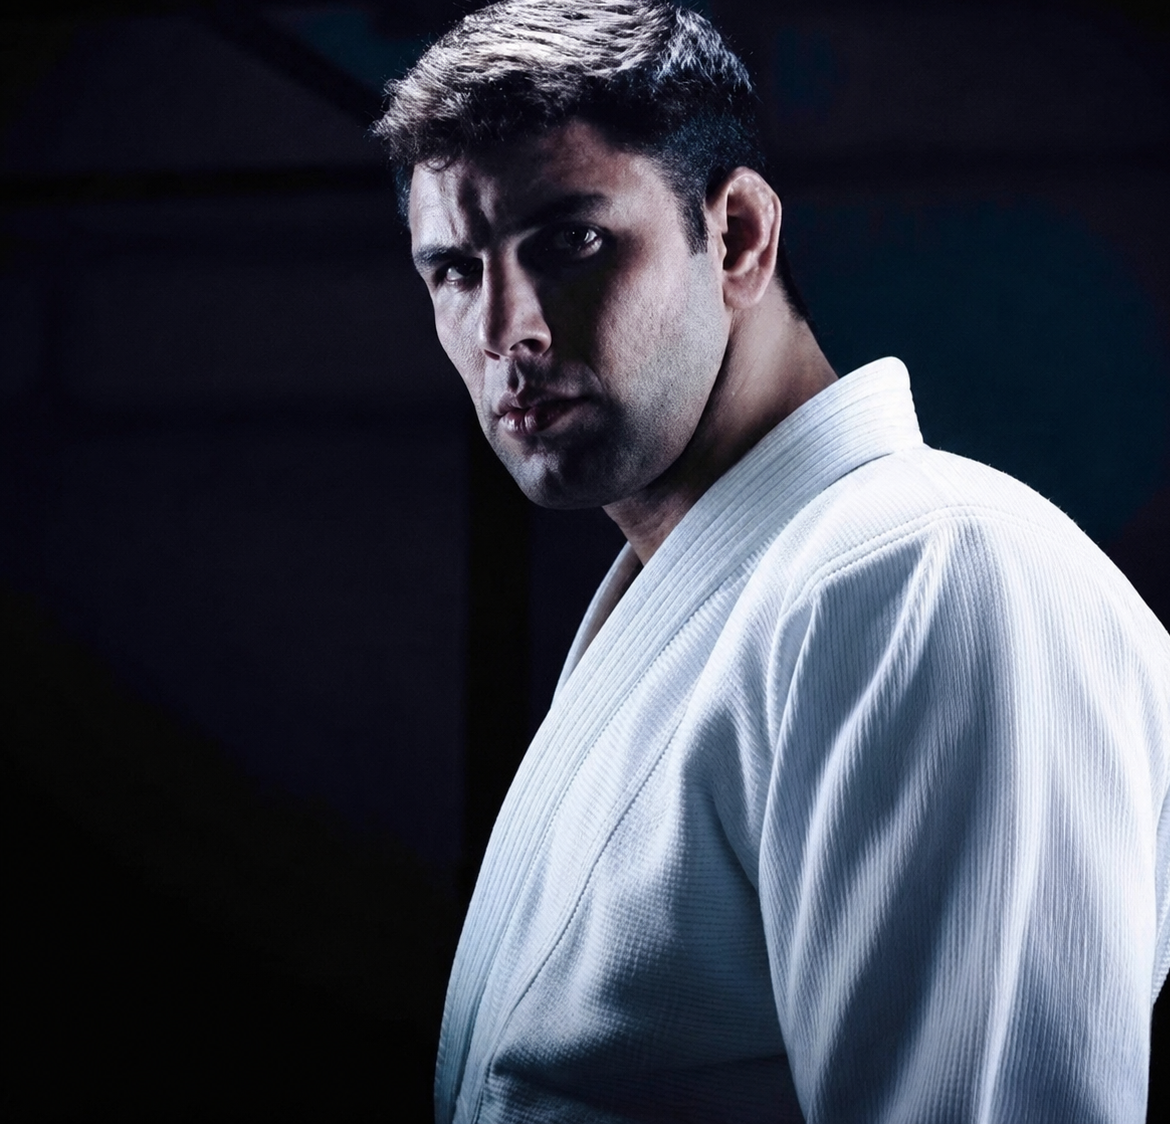
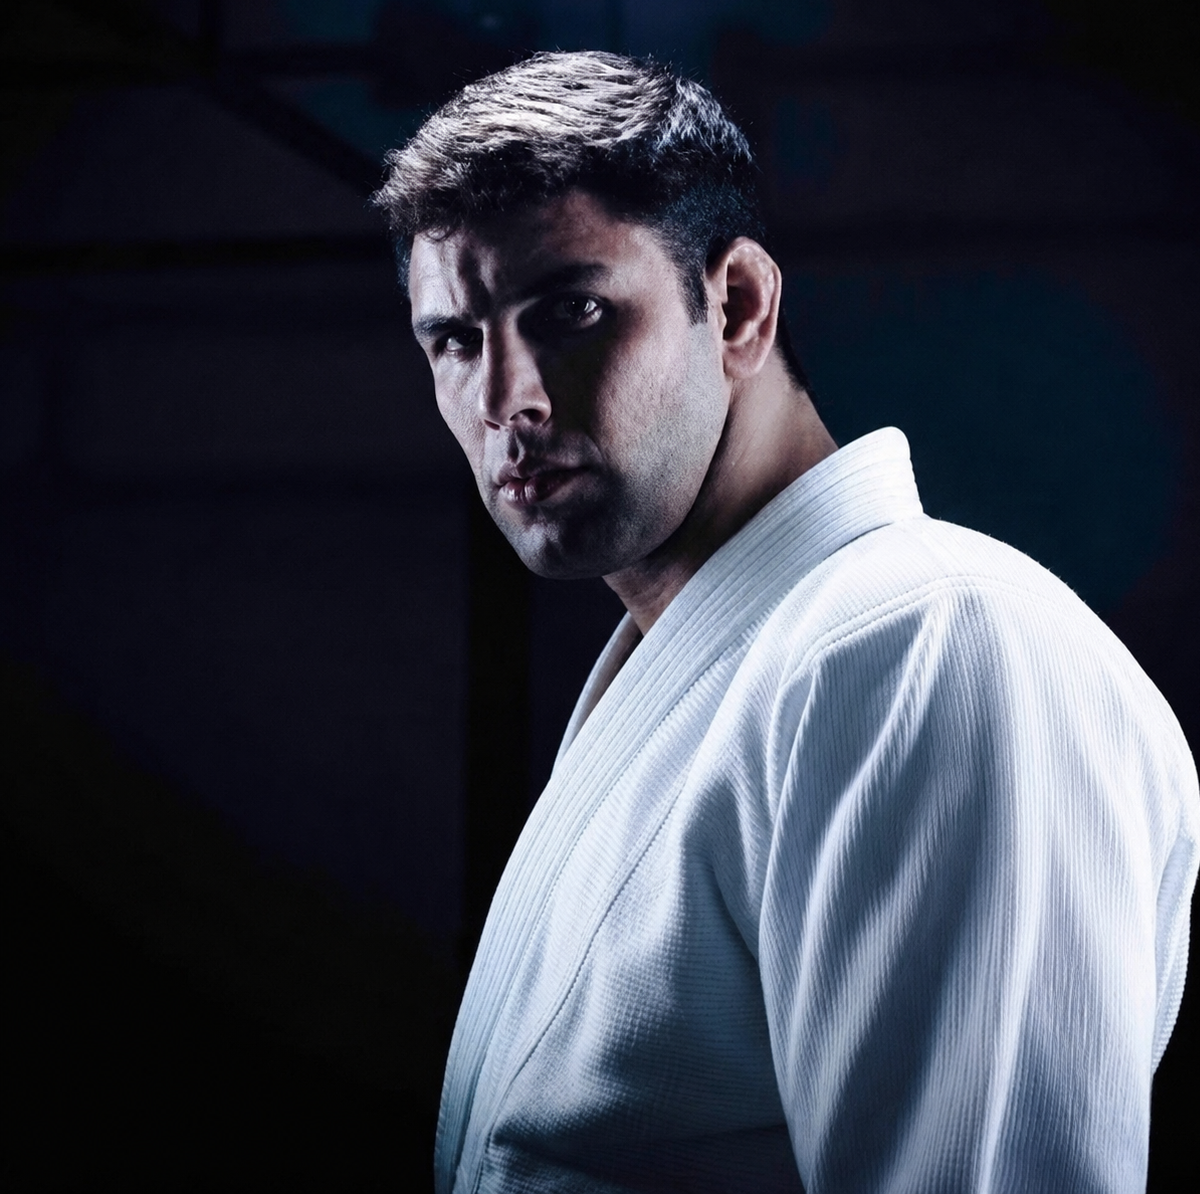
fix(homepage): shrink the mobile hero photo element and fix headroom
Previous crop had almost no margin above the hair, so shrinking the
box height alone made it look like Buchecha was pushed into the top
corner rather than simply smaller. Re-crops with real headroom above
the head (buchecha-mobile.png, 1200x1194) and shrinks the display box
itself from 479x460 to 340x338 (~30% smaller on-screen scale: 0.409
to 0.283), re-adding the dual alpha mask (left + bottom) since the
box is now narrower than the viewport and needs to blend into the
gradient on all open edges.

Changed region(s): [[0.3077, 0.0, 1.0, 1.0]]

diff --git a/apps/web/components/HeroSection.tsx b/apps/web/components/HeroSection.tsx
@@ -26,26 +26,36 @@ export default function HeroSection({ onOpenLoginModal }: HeroSectionProps) {
 
   return (
     <section className="relative overflow-hidden bg-gradient-to-br from-[#0E3A7A] via-[#0870E2]/90 to-[#0a2d5e] pb-16 pt-20 lg:pt-28 lg:pb-20">
-      {/* Mobile-only hero photo — pre-cropped (buchecha-mobile.png, 1170x1124), ~30% wider/shorter
-          than the previous crop, so Buchecha reads noticeably smaller within the frame: full
-          face, shoulder and torso, eyes ~21% from the top (clear of the headline), with a lot of
-          dark background around him. The box is wider than the viewport and right-anchored, so
-          the excess bleeds off the left edge (clipped by the section's overflow-hidden). Aspect
-          matches the box below exactly, so object-position is inert today but kept as
-          documentation / resilience. */}
-      <div className="absolute right-0 top-0 w-[479px] h-[460px] overflow-hidden md:hidden">
-        <Image
-          src="/buchecha-mobile.png"
-          alt=""
-          fill
-          className="object-cover object-[50%_21%]"
+      {/* Mobile-only hero photo — pre-cropped (buchecha-mobile.png, 1200x1194) with generous
+          headroom above the hair (previous crops let his head crowd the top edge, reading as
+          "pushed into the corner" instead of smaller). The display box itself is now physically
+          smaller (340x338, vs 479x460 before) so Buchecha reads clearly smaller on screen, not
+          just differently cropped. Because the box is now narrower than the viewport, its own
+          left/bottom edges need a real alpha mask (not just an overlay) to blend into the
+          section's gradient instead of showing a hard rectangle. */}
+      <div
+        className="absolute right-0 top-0 w-[340px] h-[338px] overflow-hidden md:hidden"
+        style={{
+          WebkitMaskImage: 'linear-gradient(to bottom, black 80%, transparent 100%)',
+          maskImage: 'linear-gradient(to bottom, black 80%, transparent 100%)',
+        }}
+      >
+        <div
+          className="relative w-full h-full"
           style={{
-            WebkitMaskImage: 'linear-gradient(to bottom, black 85%, transparent 100%)',
-            maskImage: 'linear-gradient(to bottom, black 85%, transparent 100%)',
-            filter: 'contrast(1.12) saturate(1.08) brightness(1.03)',
+            WebkitMaskImage: 'linear-gradient(to right, transparent 0%, black 30%)',
+            maskImage: 'linear-gradient(to right, transparent 0%, black 30%)',
           }}
-          priority
-        />
+        >
+          <Image
+            src="/buchecha-mobile.png"
+            alt=""
+            fill
+            className="object-cover object-[48%_26%]"
+            style={{ filter: 'contrast(1.12) saturate(1.08) brightness(1.03)' }}
+            priority
+          />
+        </div>
       </div>
 
       {/* Mobile legibility overlays — dark on the left for the copy, fading out quickly so the
